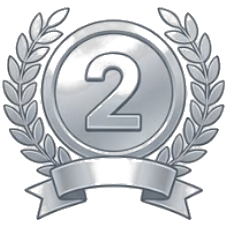
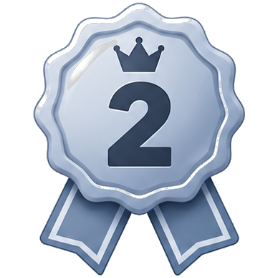
리포트 표지: 메달을 리본 배지로 교체, 차트를 왼쪽 앱 정보 높이에 맞춤
- img/medal-1~3.png를 왕관 리본 배지(사용자 제공 이미지, 배경 제거)로 교체하고 10mm로 줄임
- 범례 + 차트 높이를 왼쪽 아이콘~지표 상자 높이와 같게 (위아래 끝선 일치)

diff --git a/index.html b/index.html
@@ -383,7 +383,7 @@ html.panel-lock { overflow: hidden; }
 .rp-cv-hd { display:flex; align-items:center; gap:4mm; }
 .rp-cv-ic { position:relative; width:21mm; height:21mm; flex:none; }
 .rp-cv-ic img.ic { width:100%; height:100%; border-radius:5mm; object-fit:cover; box-shadow:0 .8mm 2.5mm rgba(15,23,42,.18); }
-.rp-cv-ic img.md { position:absolute; left:-6.5mm; top:-6.5mm; width:13mm; height:13mm; filter:drop-shadow(0 .4mm .8mm rgba(15,23,42,.25)); }
+.rp-cv-ic img.md { position:absolute; left:-4.5mm; top:-4.5mm; width:10mm; height:10mm; filter:drop-shadow(0 .3mm .6mm rgba(15,23,42,.2)); }
 .rp-cv .nm { font-size:11.5pt; font-weight:800; line-height:1.3; }
 .rp-cv .sb { font-size:8.5pt; color:var(--mute); margin-top:1mm; }
 .rp-cv .st { background:#f8fafc; border-radius:3mm; padding:3mm 4mm; margin-top:4.5mm; font-size:9.5pt; color:var(--sub); line-height:1.85; }
@@ -5586,7 +5586,7 @@ function rpAnalyze(D){
 }
 /* 표지 차트: 4주 일간 매출·인기 순위 (로그 눈금, 1위가 위). 점 + 옅은 면 + 끝 순위 배지. SVG라 인쇄 복제에도 그대로 나옴 */
 function rpCoverChart(sv, pv, ds, wk0, id){
-  const W = 460, H = 250, L = 28, R = 40, T = 10, B = 22, n = ds.length, SC = '#d97706', PC = '#14b8a6';
+  const W = 460, H = 198, L = 28, R = 40, T = 10, B = 22, n = ds.length, SC = '#d97706', PC = '#14b8a6';
   const x = i => L + i * (W - L - R) / Math.max(1, n - 1), y = v => T + Math.log(v) / Math.log(100) * (H - T - B), bot = H - B;
   const segs = arr => { const out = []; let cur = [];
     arr.forEach((v, i) => { if(v == null){ if(cur.length) out.push(cur); cur = []; } else cur.push([x(i), y(v)]); }); if(cur.length) out.push(cur); return out; };
